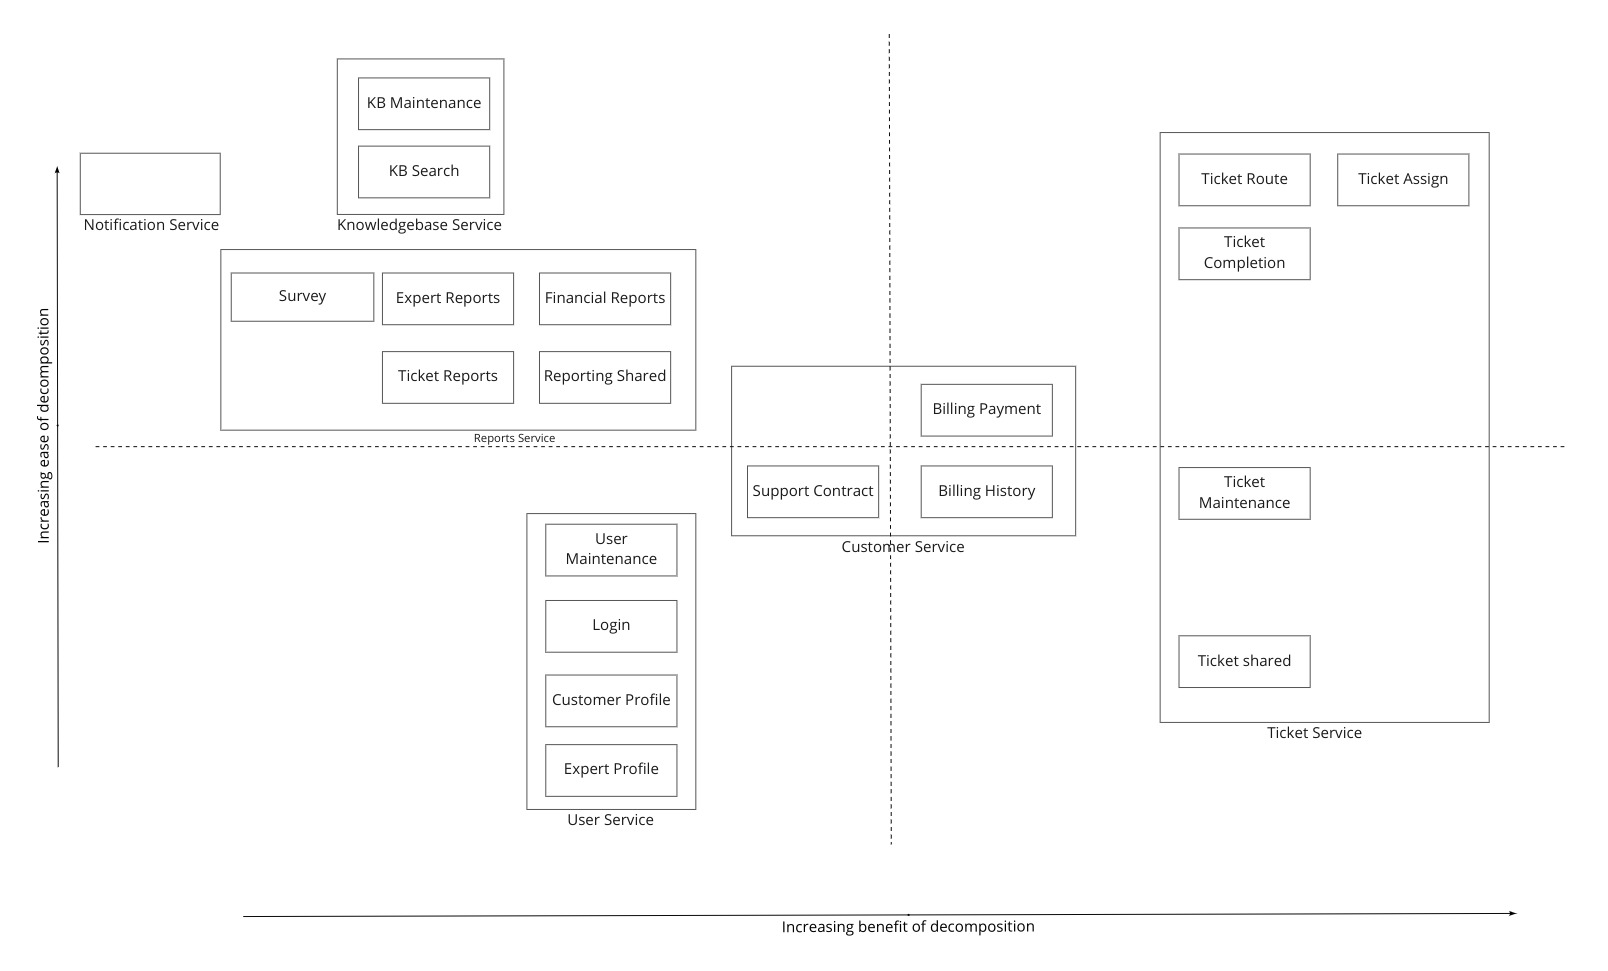
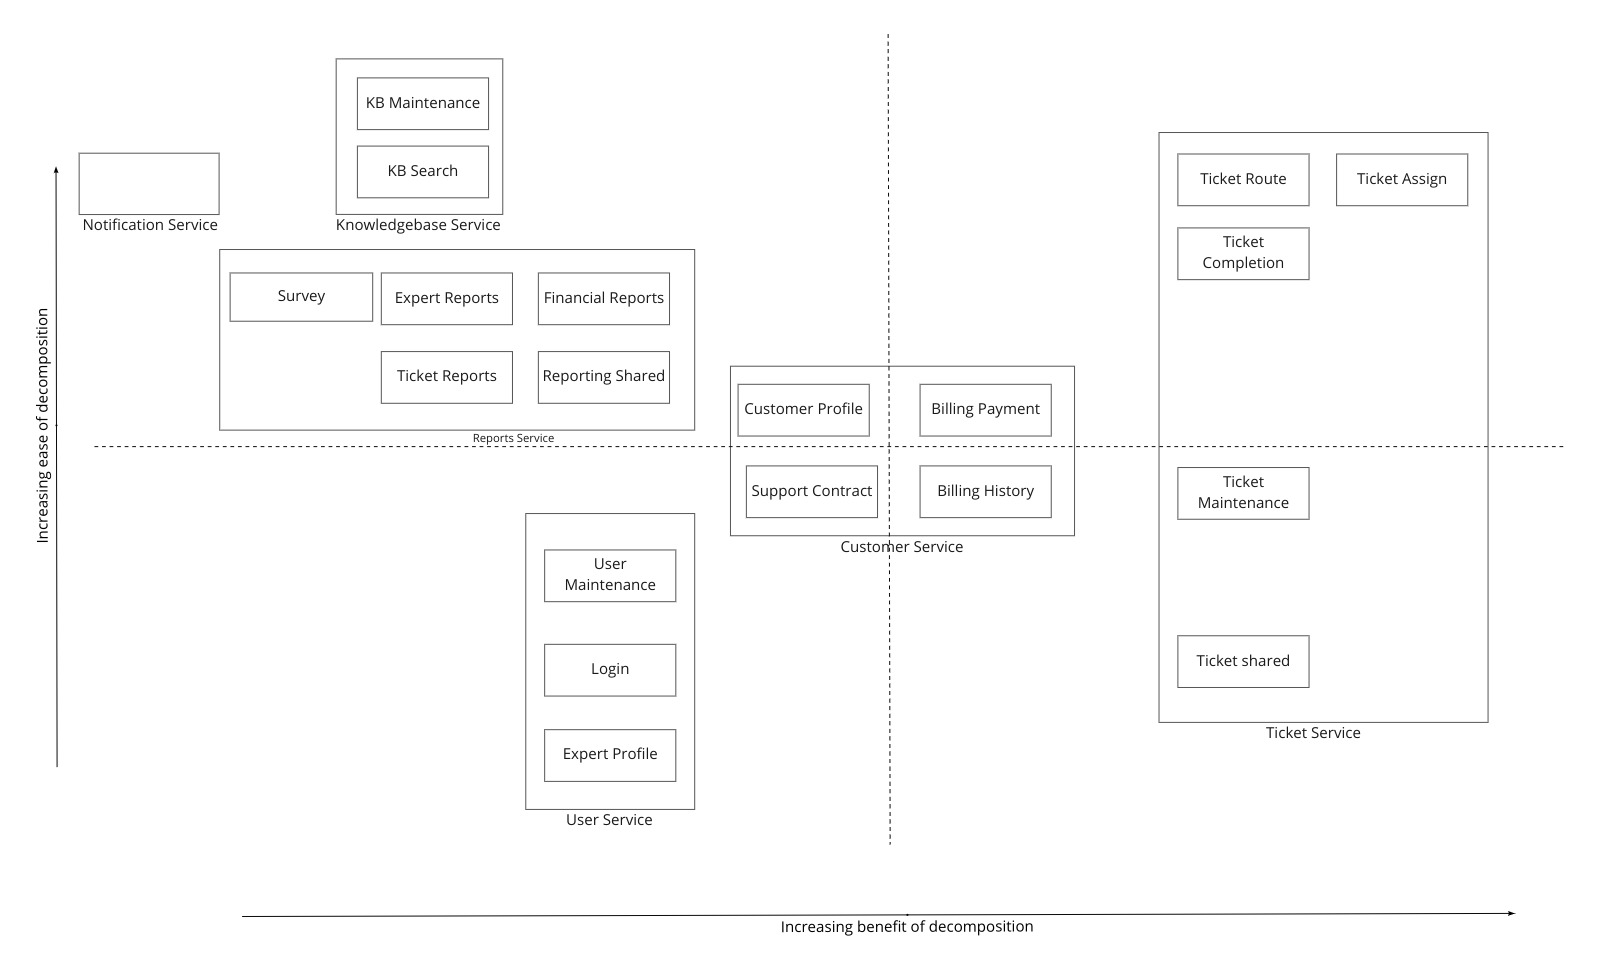
Updating the steps in the README.md

diff --git a/README.md b/README.md
@@ -146,7 +146,7 @@ Use *Branch by Abstraction* pattern to extract out Ticket Shared and Ticket Main
     - Point Ticket Service microservice to ticket database.
     - Deploy and test the change in dev environment.
     - Once the changes are stable, deploy the change to production.
-- If the migration goes as expected, remove the code from **ss.ticket** namespace in the monolith.
+- If the migration goes as expected, remove the code, except TicketServiceClient, from **ss.ticket** namespace in the monolith.
 
 
 ![Ticket Service_Split microservice from monolith](diagrams/Ticket_Service_Split_microservice_from_monolith.jpg)
@@ -158,7 +158,7 @@ Migrate **Reporting Shared**, **Expert Reports**, **Ticket Reports** and **Finan
 - Report service need not have a database of its own yet. All the information needed for this service to function exists in the monolith. 
 - Deploy and test the change in dev environment.
 - Once the changes are stable, deploy the change to production.
-
+- If the migration goes as expected, remove the code from **ss.report** namespace in the monolith.
 
 ### Step 11
 Move the foreign key relationships on the customer tables from database layer to code layer. Currently,
@@ -181,6 +181,8 @@ Migrate **Support Contract**, **Billing Payment** and **Billing History** compon
 - Since no other components in the system depend on the above components, they can be extracted out of the monolith using the *Strangler Fig Pattern.* Refer to Step 6 on how this can be done.
 - Deploy and test the change in dev environment.
 - Once the changes are stable, deploy the change to production.
+- If the migration goes as expected, remove the code from **ss.billing.payment** and **ss.billing.history** namespaces in the monolith.
+
 
 ### Step 14
 Migrate **Customer Profile** component from monolith to Customer Service.
@@ -206,6 +208,8 @@ Migrate Knowledgebase related components from monolith to Knowledgebase Service.
 - Since no other components in the system depend on the Knowledge base component, it can be extracted out of the monolith using the *Strangler Fig Pattern.* Refer to Step 6 on how this can be done.
 - Deploy and test the change in dev environment.
 - Once the changes are stable, deploy the change to production.
+- If the migration goes as expected, remove the code from **ss.kb.maintenance** and **ss.kb.search** namespaces in the monolith.
+
 
 
 ### Step 17
@@ -214,15 +218,18 @@ Migrate Survey related components from monolith to Reports Service.
 - The only components depending on Survey component are Ticket Completion and Expert Reports. These are already moved out to their respective services above. So Survey may be extracted out using *Strangler Fig Pattern*
 - Deploy and test the change in dev environment.
 - Once the changes are stable, deploy the change to production.
+- If the migration goes as expected, remove the code from **ss.survey** namespace in the monolith.
+
+
 
 ### Step 18
 Migrate User Service
-- This service may continue to exist in the monolith
+- This service may continue to exist in the monolith because most of the code in the monolith has been moved / removed. However, it would be best to have login handled by an external IDP (like okta or auth0) for better security (in terms of multi-factor authentication) since the system is handling credit card information. 
 
 
 ## Further Improvements
 - [ADR - Products table in Customer Service](ADRs/adr_products_in_customer_service.md)
-- Notification component currently co-exists with Login Component. Ideally notification service may exist independently, catering to billing notifications for customers and general info for now. (for now and internal users later on). But the notifications may exist independently as its scale and purpose are different from the rest of the. Notification service may also maintain customer’s/expert’s ticket related notifications, which are currently sent via email/SMS, for tracking (to avoid repudiation).
+- Notification component currently co-exists with Login Component. Ideally notification service may exist independently, catering to billing notifications for customers and general info (for now and internal users later on). Also, its scale and purpose are different from the rest of the system. Notification service may also maintain customer’s/expert’s ticket related notifications, which are currently sent via email/SMS, for tracking (to avoid repudiation).
 - Currently, there seems to be no relation between survey and ticket. Add a ticket_id to the survey table.
 
 
@@ -236,8 +243,8 @@ Migrate User Service
   
 
 ## References
-<https://betterprogramming.pub/rabbitmq-vs-kafka-1779b5b70c41>
+https://betterprogramming.pub/rabbitmq-vs-kafka-1779b5b70c41
 
-<https://learning.oreilly.com/library/view/monolith-to-microservices/9781492047834/>
+https://learning.oreilly.com/library/view/monolith-to-microservices/9781492047834/
 
-
+https://microservices.io/refactoring/
